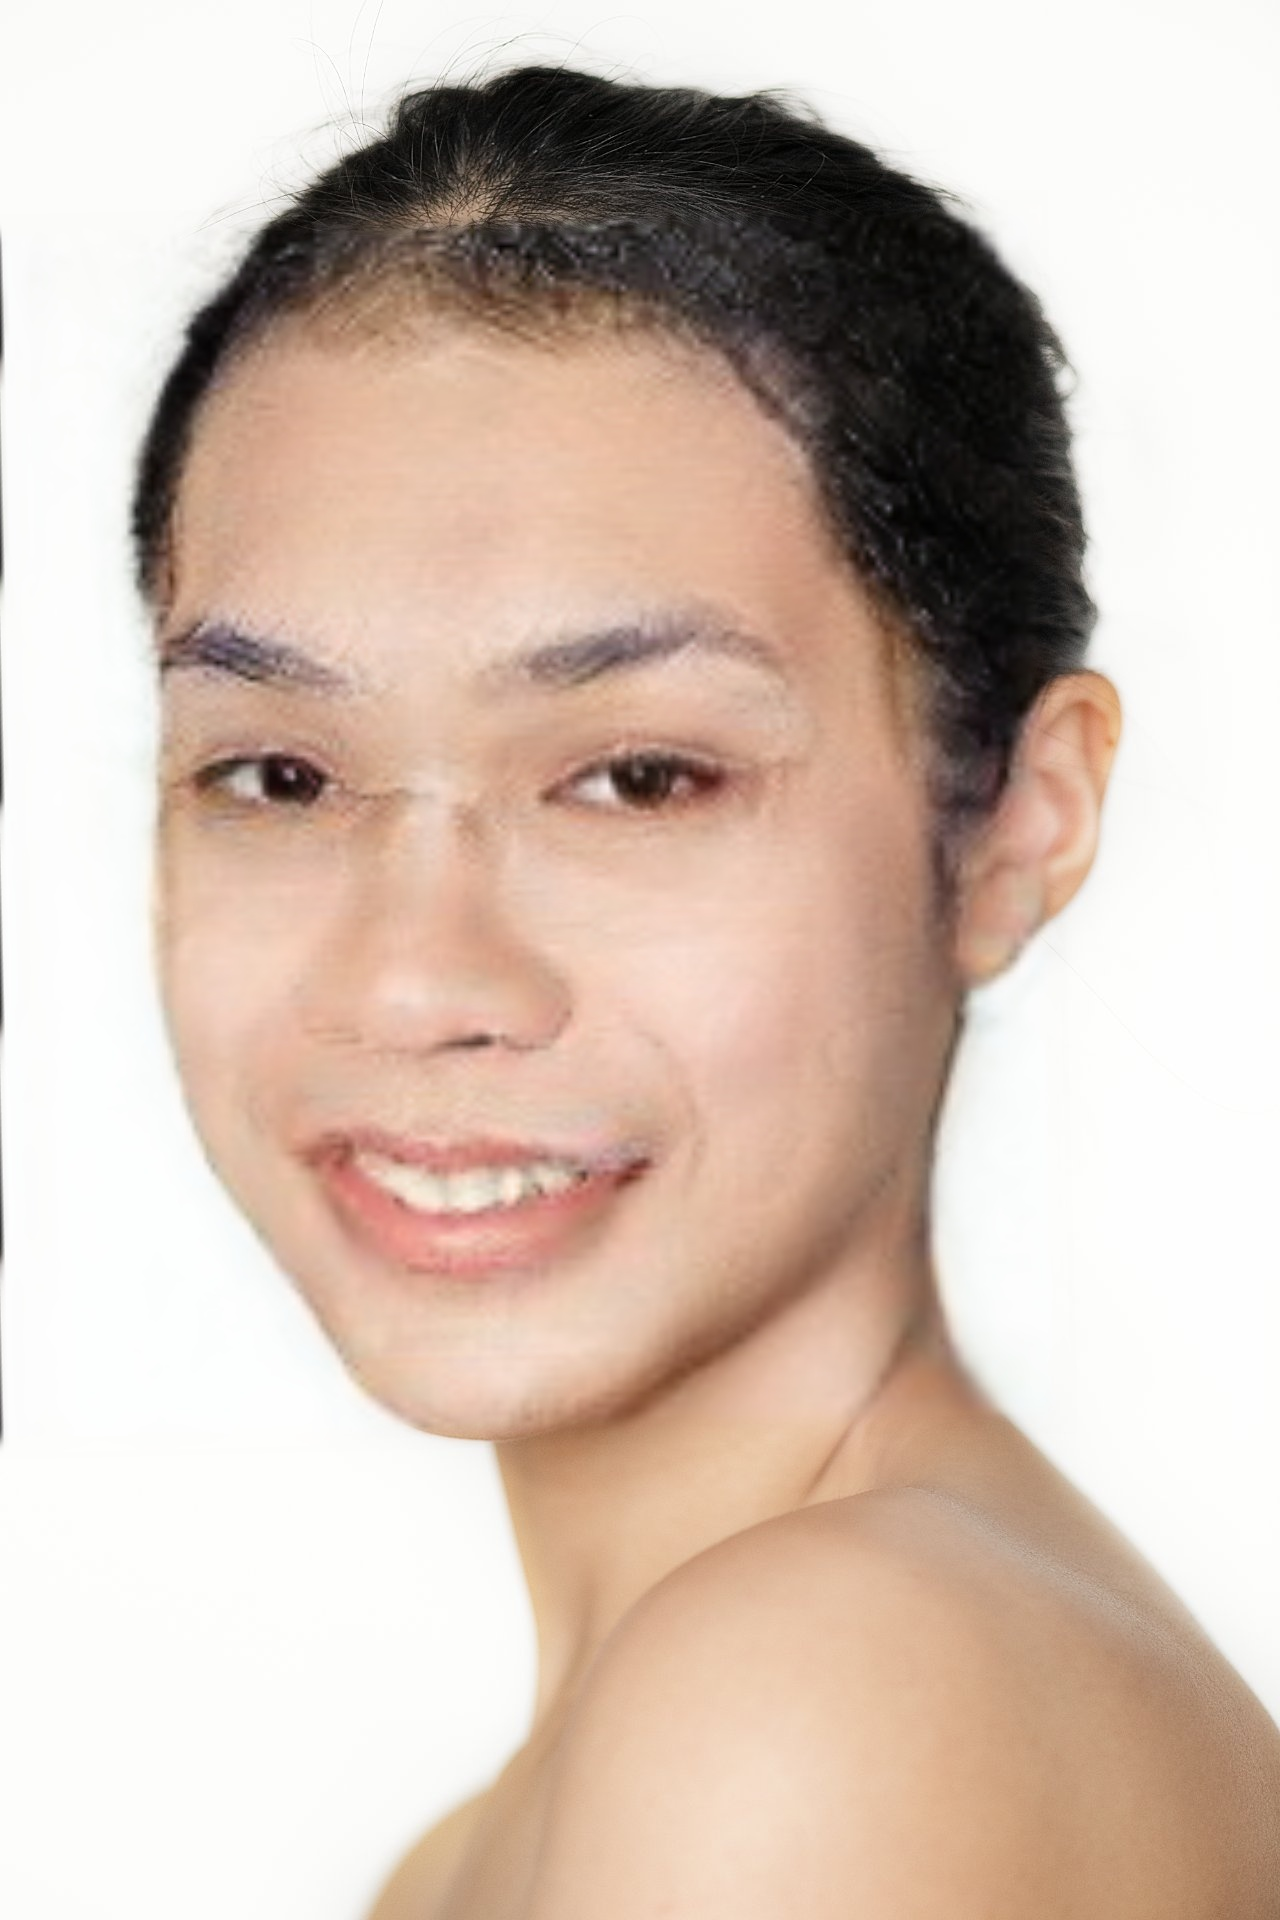
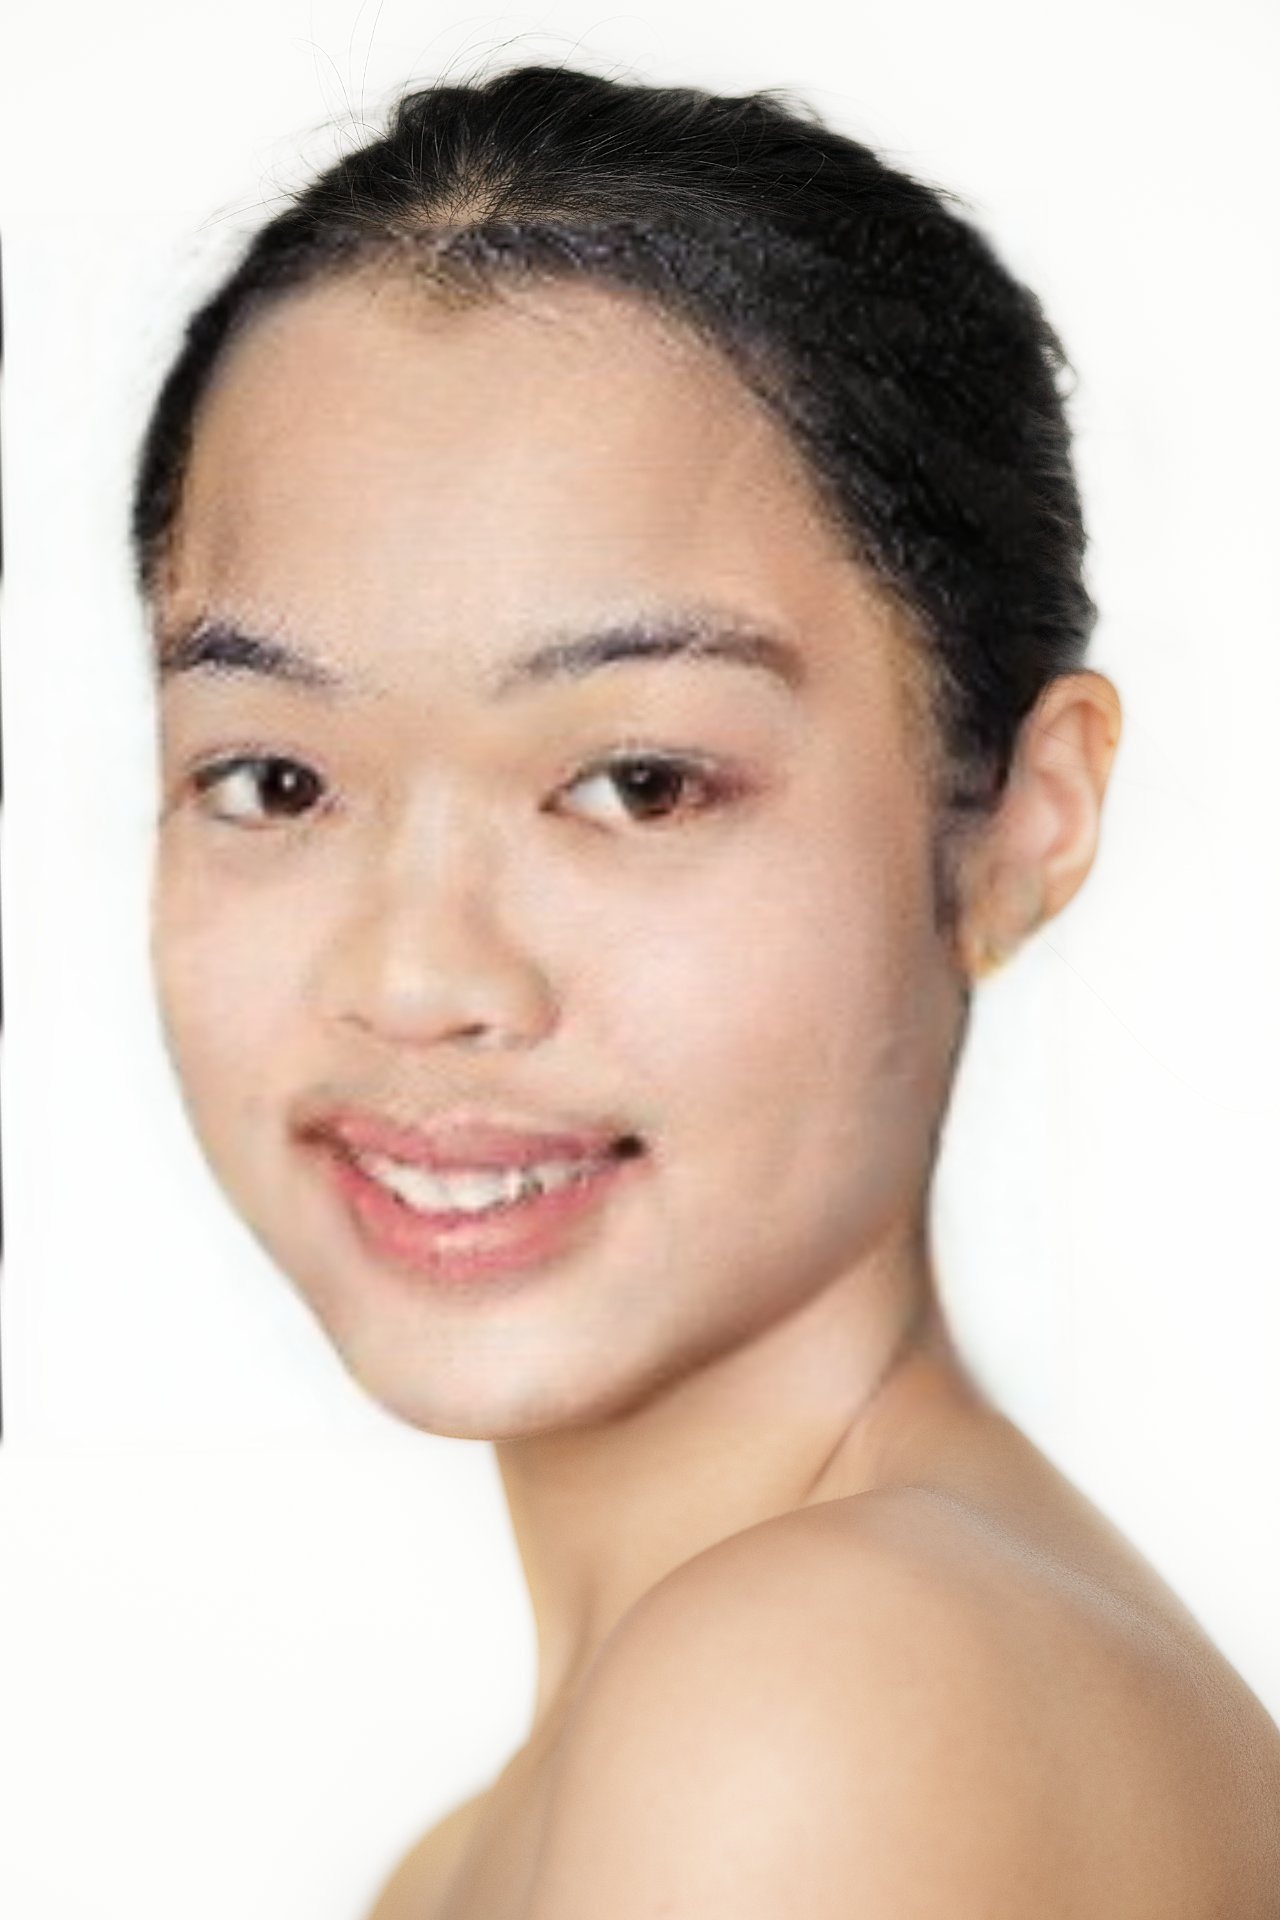
fix(frontend): remove remaining localhost URLs in LiveMode and ResultPicker

diff --git a/frontend/src/components/LiveMode.jsx b/frontend/src/components/LiveMode.jsx
@@ -2,6 +2,9 @@ import React, { useState, useRef, useEffect } from 'react';
 import ResultPicker from './ResultPicker';
 import './LiveMode.css';
 
+const API_BASE = import.meta.env.VITE_API_BASE_URL || 'http://localhost:8000';
+const WS_BASE = API_BASE.replace(/^http/, 'ws');
+
 const LiveMode = () => {
     const [sourceImage, setSourceImage] = useState(null);
     const [isLive, setIsLive] = useState(false);
@@ -36,7 +39,7 @@ const LiveMode = () => {
         formData.append('src', file);
 
         try {
-            const response = await fetch('http://localhost:8000/api/live/prepare_source', {
+            const response = await fetch(`${API_BASE}/api/live/prepare_source`, {
                 method: 'POST',
                 body: formData,
             });
@@ -73,7 +76,7 @@ const LiveMode = () => {
         formData.append('src', file);
 
         try {
-            const response = await fetch('http://localhost:8000/api/live/prepare_source', {
+            const response = await fetch(`${API_BASE}/api/live/prepare_source`, {
                 method: 'POST',
                 body: formData,
             });
@@ -107,7 +110,7 @@ const LiveMode = () => {
             }
 
             // Connect WebSocket
-            const ws = new WebSocket(`ws://localhost:8000/api/live/ws/swap?session_id=${sessionId}`);
+            const ws = new WebSocket(`${WS_BASE}/api/live/ws/swap?session_id=${sessionId}`);
             wsRef.current = ws;
 
             ws.onopen = () => {

diff --git a/frontend/src/components/ResultPicker.jsx b/frontend/src/components/ResultPicker.jsx
@@ -2,7 +2,7 @@ import { useState, useEffect } from 'react';
 import { getRecentResults, deleteResult } from '../services/api';
 import './ResultPicker.css';
 
-const API_BASE = 'http://localhost:8000';
+const API_BASE = import.meta.env.VITE_API_BASE_URL || 'http://localhost:8000';
 
 /**
  * ResultPicker — modal that shows recent results from all tools.
